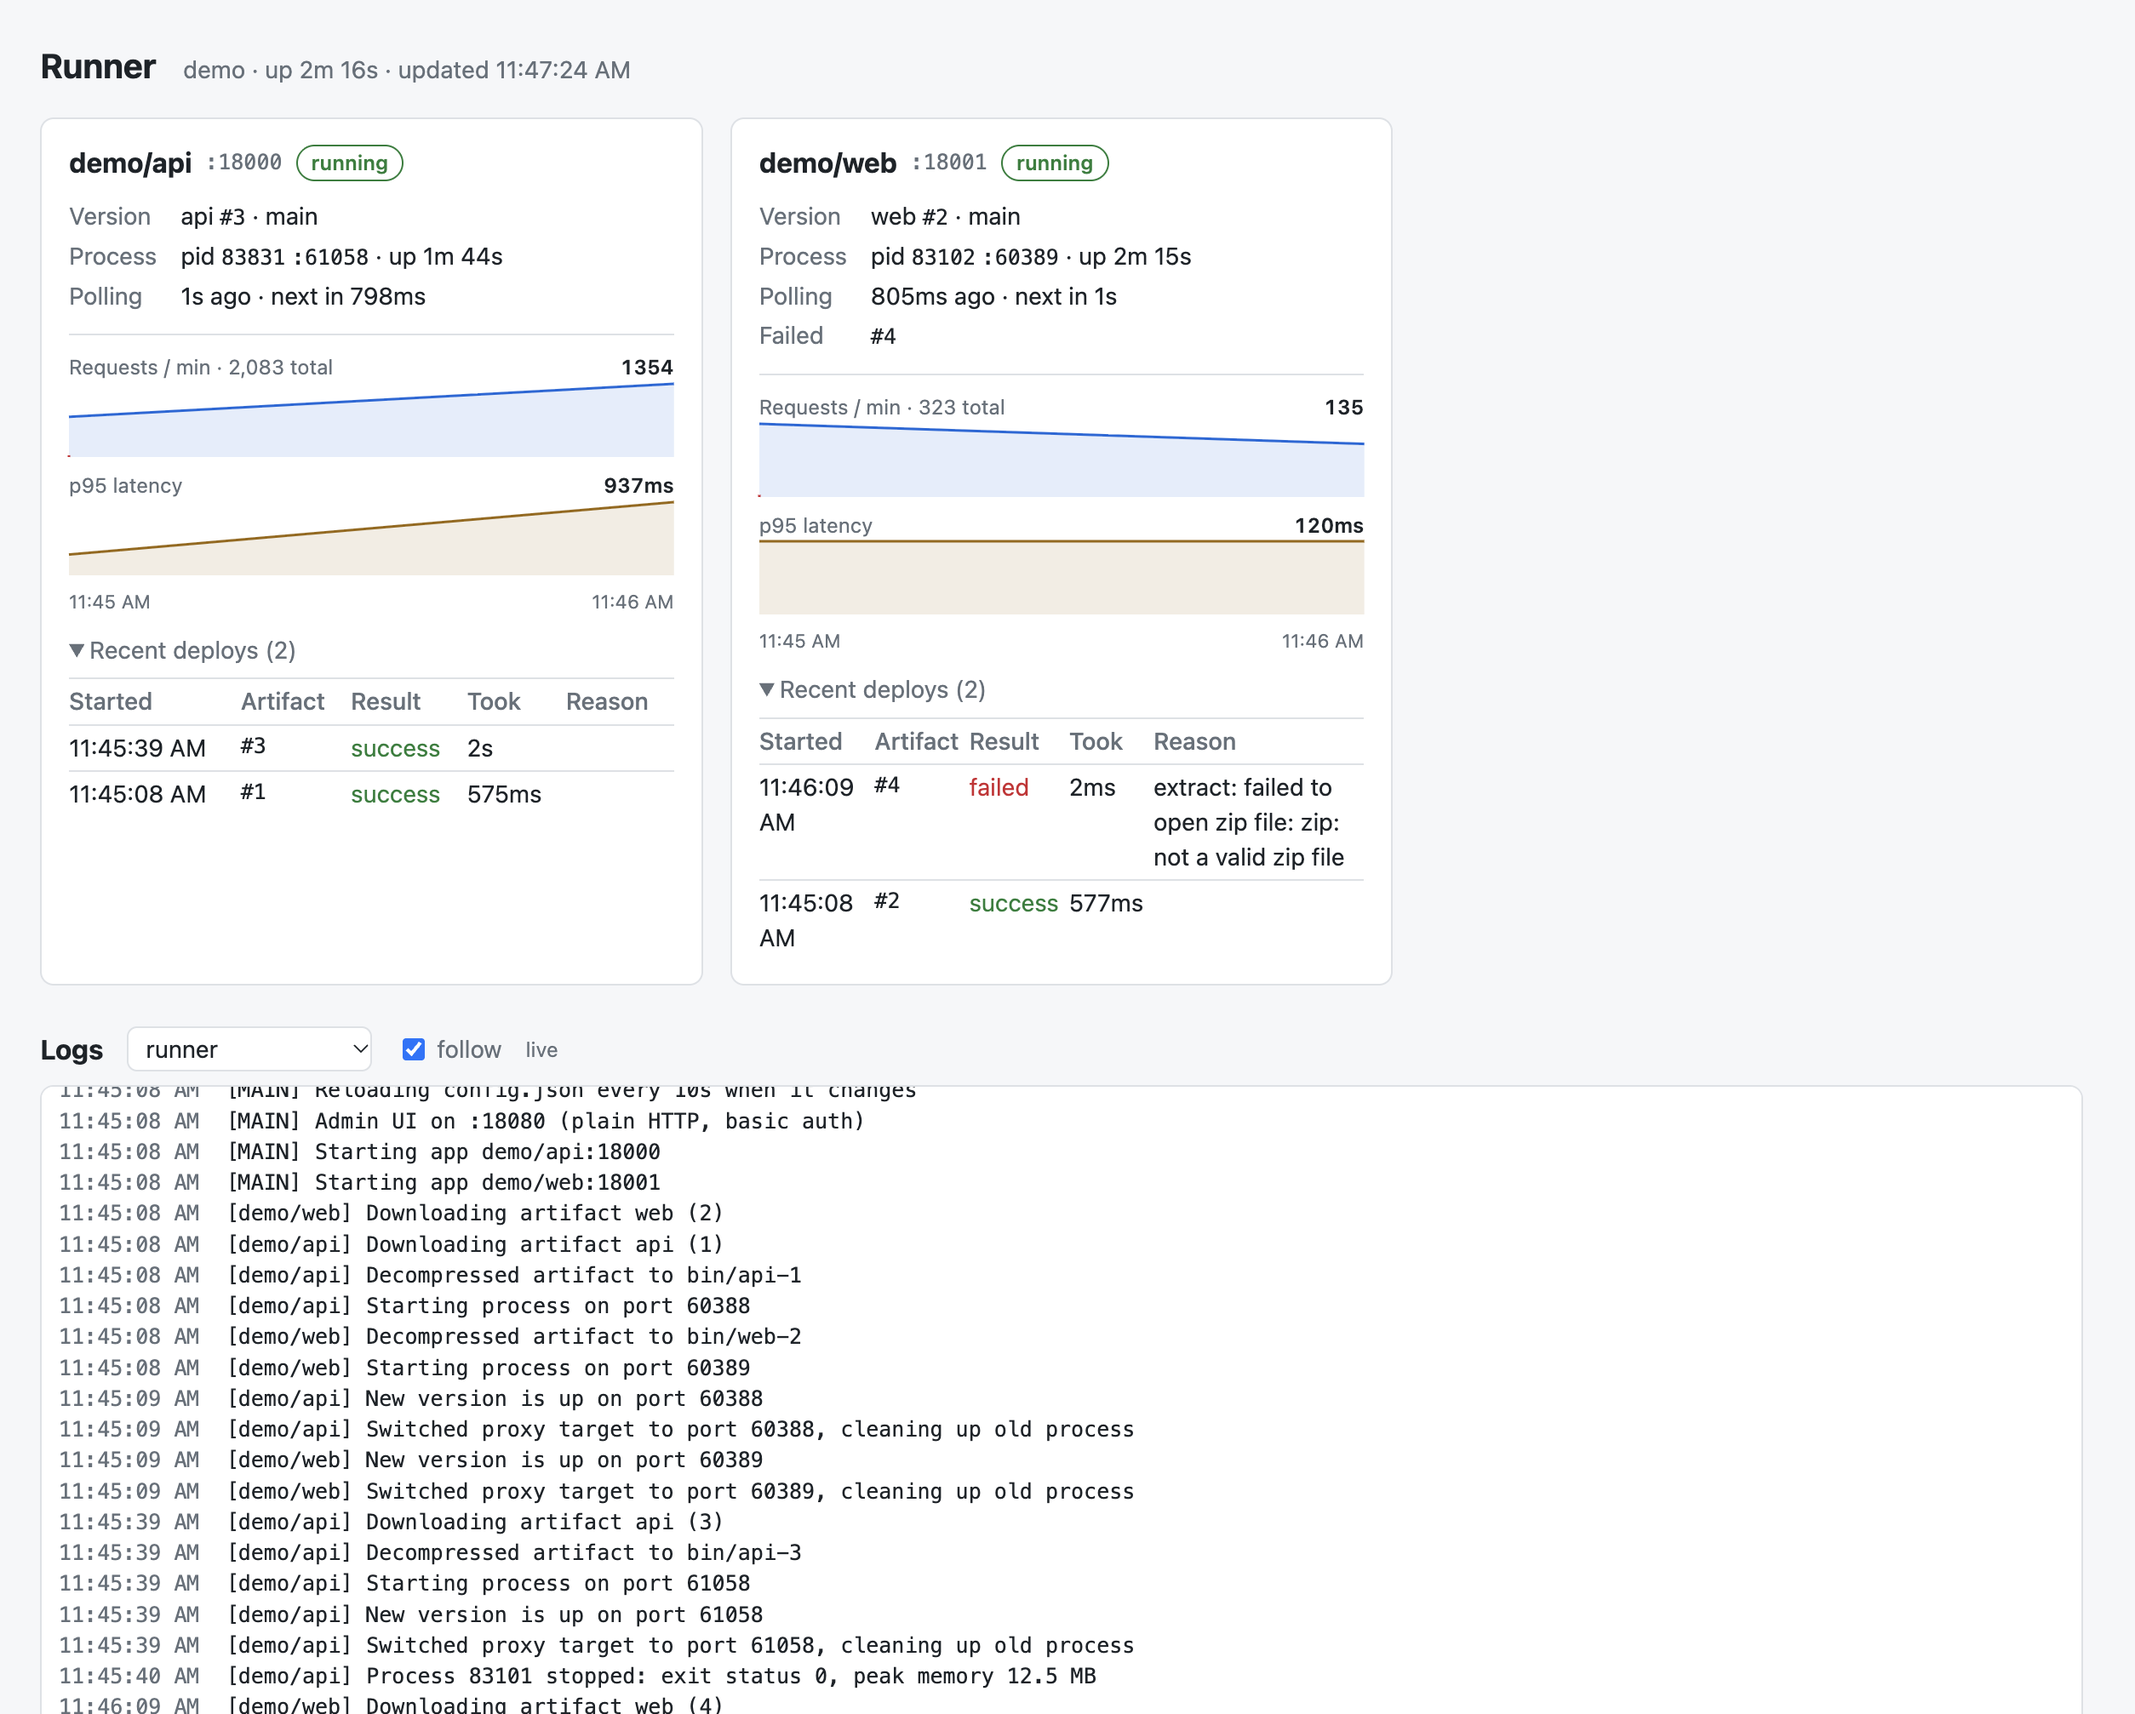
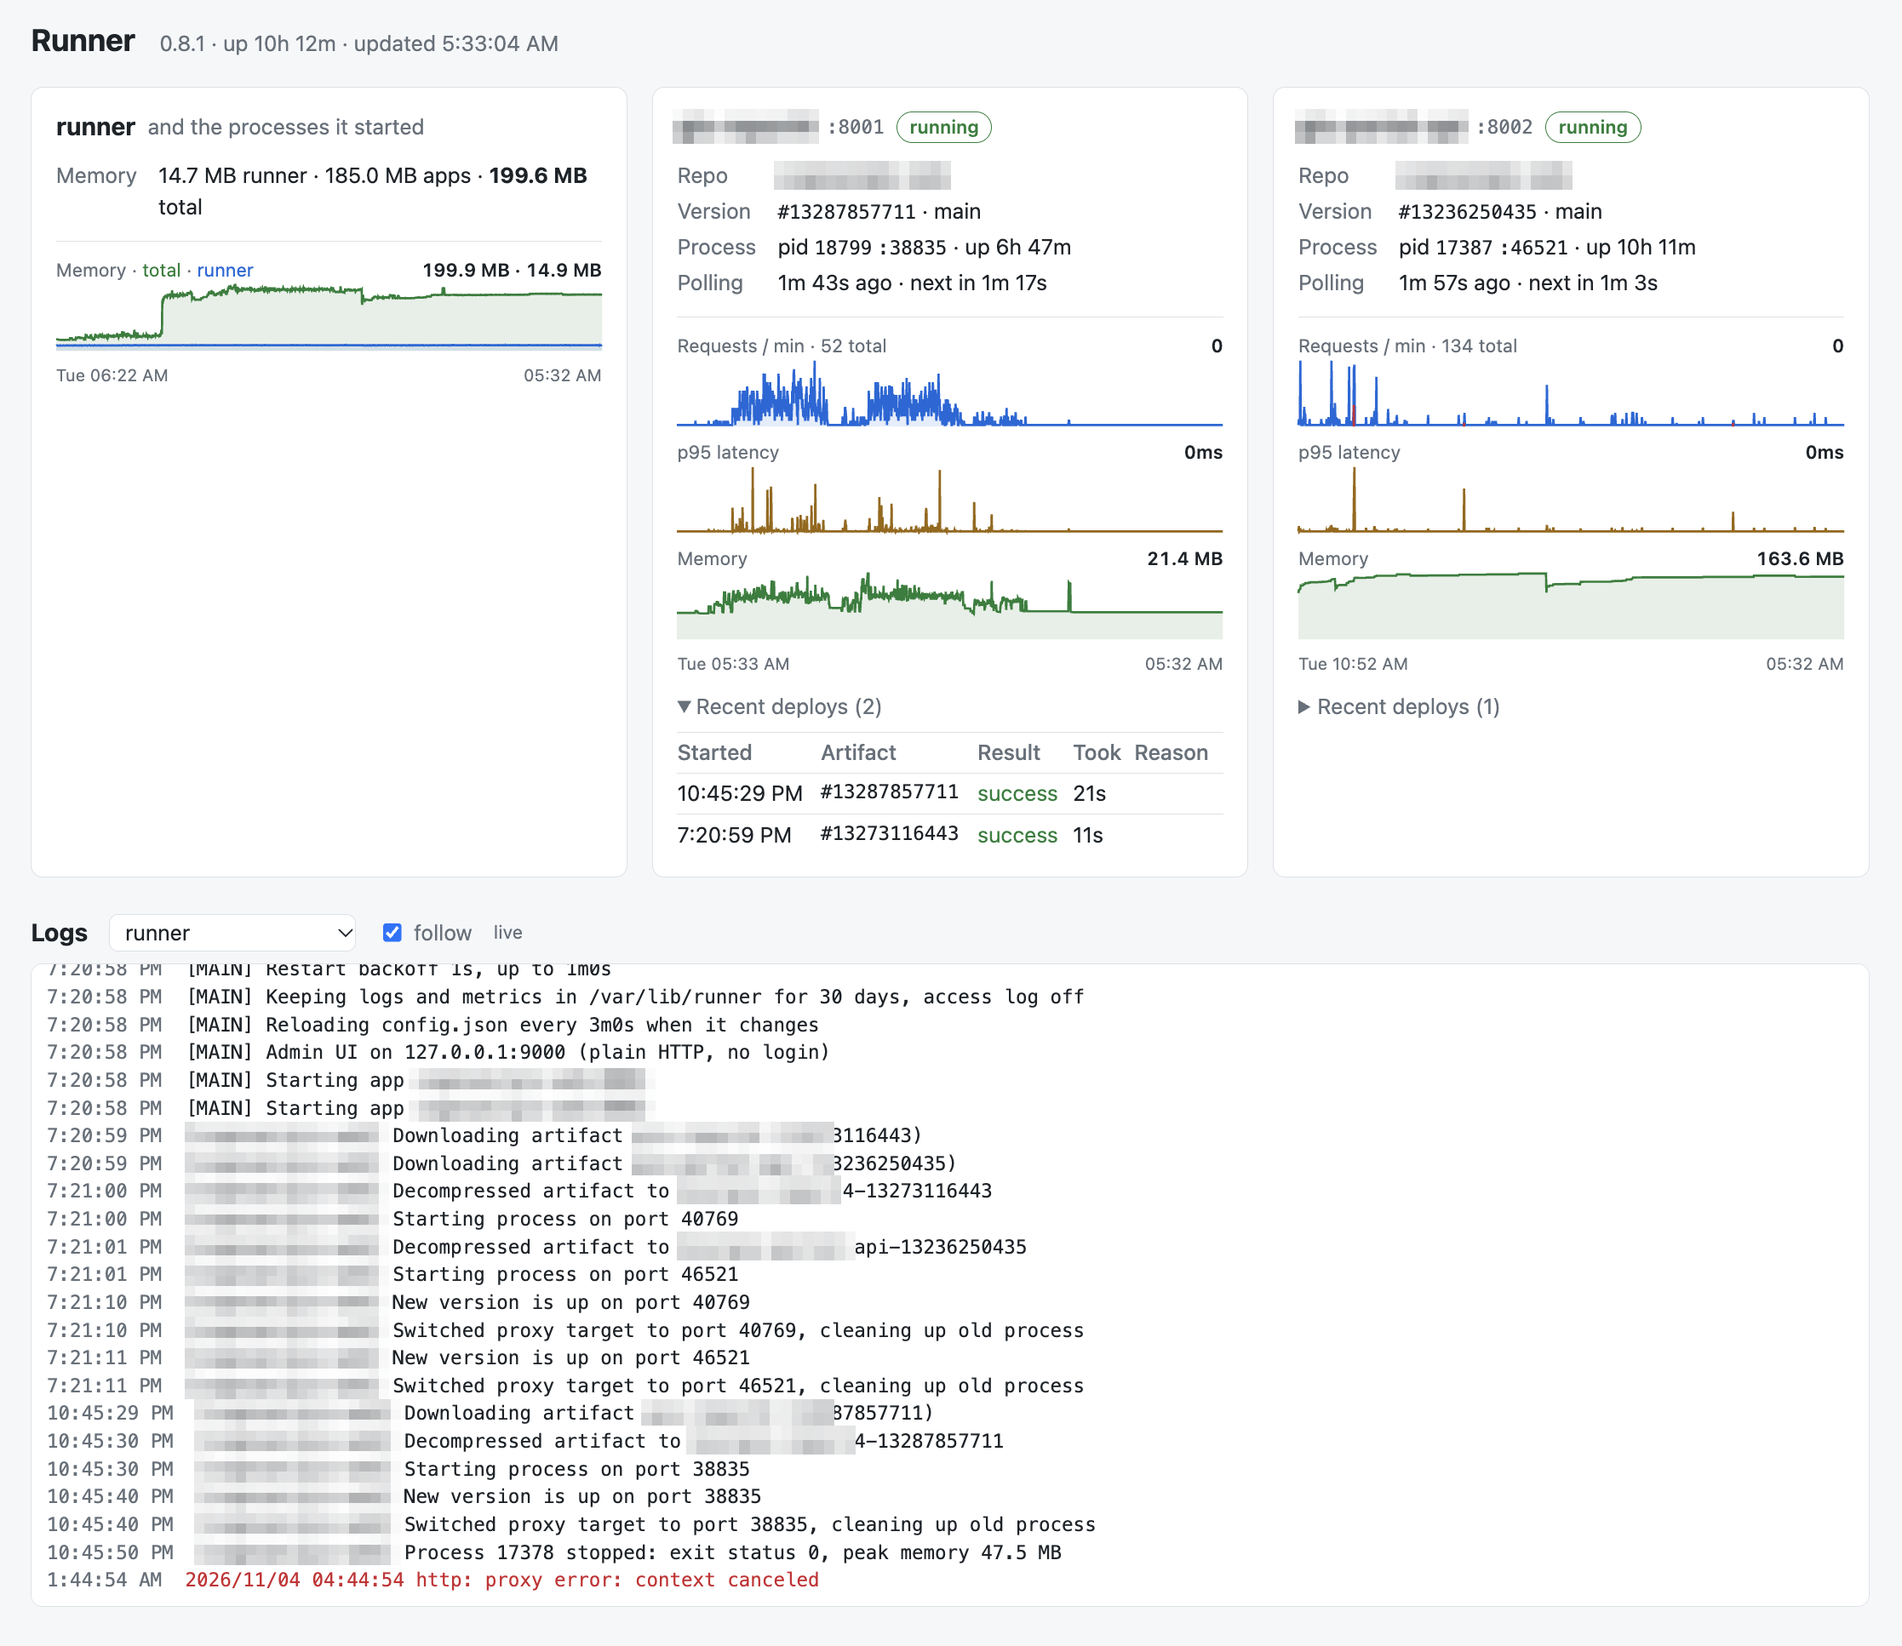
docs: update monitoring UI screenshot to v0.8.1 (#24)

diff --git a/README.md b/README.md
@@ -269,7 +269,7 @@ Each app handles a reload between operations: a deploy, restart or env redeploy 
 
 ## Monitoring UI
 
-![Monitoring UI showing two apps and the live runner log](docs/monitoring-ui.png)
+![Monitoring UI showing runner memory, two apps and the live runner log](docs/monitoring-ui.png)
 
 Set `adminPort`, `adminUser` and `adminPassword` to serve a read-only page that shows each app and streams its logs:
 
